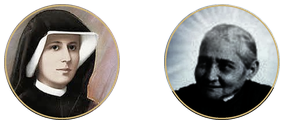
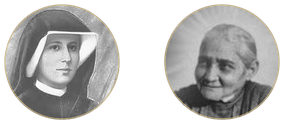
Diptyque en noir et blanc doux (case c1), blancs remontés à 230
- make_diptyque.py : chaîne de la case c1 de la planche, en numpy seul
  (égalisation locale CLAHE, alignement sur une cible commune de luminance
  et de contraste, noir et blanc doux, anneau doré #c9b074) ; force de
  l'égalisation réglable par portrait.
- Courbe « doux » : hautes lumières levées au-dessus de 0,6 (blancs du voile
  et du col vers 230/255 au lieu de 214) avec une épaule douce, sans
  écrêtage ; courbe inchangée en dessous, identique pour les deux portraits.
- Versions : diptyque v3, cache du service worker v12.

diff --git a/templates/index.html b/templates/index.html
@@ -28,8 +28,8 @@
 
         <!-- Accueil : les deux saintes. Dès qu'un éclairage est demandé, le
              portrait de la seule source interrogée prend le relais. -->
-        <img id="diptyque-accueil" class="diptyque-accueil" src="/static/diptyque.png?v=2"
-             srcset="/static/diptyque.png?v=2 1x, /static/diptyque@2x.png?v=2 2x"
+        <img id="diptyque-accueil" class="diptyque-accueil" src="/static/diptyque.png?v=3"
+             srcset="/static/diptyque.png?v=3 1x, /static/diptyque@2x.png?v=3 2x"
              width="284" height="124" alt="Sainte Faustine et Luisa Piccarreta"/>
         <div class="diptyque diptyque-cache" id="diptyque">
             <span class="portrait" data-source="luisa">

diff --git a/templates/login.html b/templates/login.html
@@ -24,8 +24,8 @@
 </head>
 <body class="page-login">
     <main class="login-container">
-        <img class="login-diptyque" src="/static/diptyque.png?v=2"
-             srcset="/static/diptyque.png?v=2 1x, /static/diptyque@2x.png?v=2 2x"
+        <img class="login-diptyque" src="/static/diptyque.png?v=3"
+             srcset="/static/diptyque.png?v=3 1x, /static/diptyque@2x.png?v=3 2x"
              width="284" height="124" alt="Sainte Faustine et Luisa Piccarreta"/>
         <h1 class="login-title">Accès protégé</h1>
         <p class="login-subtitle">Veuillez saisir le mot de passe pour accéder à l'application.</p>

diff --git a/static/sw.js b/static/sw.js
@@ -2,7 +2,7 @@
 // Stratégie : "network-first" sur la navigation, avec repli sur le cache hors-ligne.
 // Les requêtes API (POST) ne sont jamais mises en cache.
 
-const CACHE = "evangile-ldc-v11";
+const CACHE = "evangile-ldc-v12";
 const SHELL = [
   "/",
   "/static/styles.css?v=10",
@@ -11,8 +11,8 @@ const SHELL = [
   "/static/icon-192.png",
   "/static/icon-512.png",
   "/static/manifest.json?v=2",
-  "/static/diptyque.png?v=2",
-  "/static/diptyque@2x.png?v=2",
+  "/static/diptyque.png?v=3",
+  "/static/diptyque@2x.png?v=3",
 ];
 
 self.addEventListener("install", (event) => {

diff --git a/make_diptyque.py b/make_diptyque.py
@@ -5,11 +5,21 @@ make_diptyque.py — Génère l'image d'accueil : deux médaillons côte à côt
     static/diptyque.png      Sainte Faustine à gauche, Luisa Piccarreta à droite
     static/diptyque@2x.png   même image pour les écrans haute densité
 
-Les deux portraits reçoivent le même traitement : recadrage carré en buste,
-à la même échelle de visage ; harmonisation de luminosité et de saturation
-(fonctions de `make_portraits.py`) ; découpe ronde lissée ; bordure fine
-dorée (#c9b074, celle des portraits de l'application). L'image ne contient
-aucun texte : les noms figurent dans la page (texte d'accueil, attribut alt).
+Traitement retenu (case « c1 » de la planche comparative) : noir et blanc
+doux, bordure dorée fine #c9b074. Chaîne appliquée à chaque portrait :
+
+  1. recadrage carré en buste, à la même échelle de visage ;
+  2. passage en niveaux de gris, à 232 px (médaillon en 2x) ;
+  3. égalisation locale du contraste (CLAHE, écrite en numpy), force réglée
+     par portrait (`limite`) ;
+  4. alignement sur une cible commune de luminance moyenne et d'écart-type,
+     mesurés dans le médaillon : les deux photos, très différentes au départ
+     (peinture sombre, photographie claire), s'accordent ;
+  5. noir et blanc doux : noirs relevés, blancs adoucis ;
+  6. découpe ronde lissée, anneau doré. Hors du médaillon, transparent.
+
+La version 1x est la réduction de la version 2x, pour un rendu identique.
+L'image ne contient aucun texte : les noms figurent dans la page.
 
 Sources :
     Sainte Faustine  data/faustine/sfi.jpg    (722 × 423)
@@ -21,70 +31,128 @@ Les icônes PWA ne sont pas touchées (voir make_icons.py).
 """
 import os
 
-from PIL import Image, ImageDraw
-
-from make_portraits import harmoniser, luminance, saturation
+import numpy as np
+from PIL import Image
 
 RACINE = os.path.dirname(os.path.abspath(__file__))
 SORTIE = os.path.join(RACINE, "static")
 
-#: Mise en page à l'échelle 1 (pixels CSS) ; la version 2x double tout.
-DIAMETRE = 116          # médaillon
-BORDURE = 1.5           # épaisseur de la bordure
-ECART = 44              # espace entre les deux médaillons
-MARGE = 4               # marge autour de l'ensemble
+#: Mise en page en 2x (la version 1x en est la réduction de moitié).
+D = 232                 # diamètre du médaillon (116 px CSS)
+ECART = 88              # espace entre les médaillons (44 px CSS)
+MARGE = 8               # marge autour de l'ensemble (4 px CSS)
 
-OR = (201, 176, 116, 255)           # #c9b074
+OR = (201, 176, 116)    # #c9b074
 
-#: Recadrages carrés (x0, y0, x1, y1), en buste, réglés à l'œil pour que les
-#: deux visages aient la même taille dans le médaillon (le voile de Sainte
-#: Faustine monte plus haut que la tête de Luisa, d'où un cadre plus serré).
+#: Cible commune après égalisation (0-255), mesurée dans le médaillon.
+CIBLE_MOYENNE = 138.0
+CIBLE_ECART = 52.0
+TUILES = (4, 4)         # grille de l'égalisation locale
+
+#: Portraits : (nom, source, recadrage carré (x0, y0, x1, y1), limite CLAHE).
+#: Recadrages réglés à l'œil pour que les deux visages aient la même taille
+#: (le voile de Sainte Faustine monte plus haut que la tête de Luisa, d'où un
+#: cadre plus serré). La limite fixe la force de l'égalisation locale.
 PORTRAITS = [
-    ("Sainte Faustine", ("data", "faustine", "sfi.jpg"), (215, 0, 415, 200)),
-    ("Luisa Piccarreta", ("static", "luisa_icon.jpg"), (0, 0, 388, 388)),
+    ("Sainte Faustine", ("data", "faustine", "sfi.jpg"), (215, 0, 415, 200), 2.0),
+    ("Luisa Piccarreta", ("static", "luisa_icon.jpg"), (0, 0, 388, 388), 2.0),
 ]
 
-SURECHANTILLONNAGE = 4  # découpe ronde et bordure dessinées en 4x puis réduites
+
+def clahe(gris, tuiles=TUILES, limite=2.0):
+    """Égalisation d'histogramme adaptative à contraste limité (uint8 → float 0-255)."""
+    h, w = gris.shape
+    ty, tx = tuiles
+    th, tw = h // ty, w // tx
+    luts = np.zeros((ty, tx, 256), dtype=np.float64)
+    for i in range(ty):
+        for j in range(tx):
+            tuile = gris[i * th:(i + 1) * th, j * tw:(j + 1) * tw]
+            hist = np.bincount(tuile.ravel(), minlength=256).astype(np.float64)
+            plafond = limite * tuile.size / 256.0
+            exces = np.maximum(hist - plafond, 0).sum()
+            hist = np.minimum(hist, plafond) + exces / 256.0
+            cdf = hist.cumsum()
+            luts[i, j] = (cdf - cdf[0]) / max(cdf[-1] - cdf[0], 1) * 255.0
+    # Interpolation bilinéaire entre les tables des centres de tuiles.
+    yc = (np.arange(h) + 0.5) / th - 0.5
+    xc = (np.arange(w) + 0.5) / tw - 0.5
+    y0 = np.clip(np.floor(yc).astype(int), 0, ty - 1)
+    x0 = np.clip(np.floor(xc).astype(int), 0, tx - 1)
+    y1 = np.clip(y0 + 1, 0, ty - 1)
+    x1 = np.clip(x0 + 1, 0, tx - 1)
+    wy = np.clip(yc - y0, 0, 1)[:, None]
+    wx = np.clip(xc - x0, 0, 1)[None, :]
+    Y0, X0 = np.meshgrid(y0, x0, indexing="ij")
+    Y1, X1 = np.meshgrid(y1, x1, indexing="ij")
+    v = gris.astype(int)
+    haut = luts[Y0, X0, v] * (1 - wx) + luts[Y0, X1, v] * wx
+    bas = luts[Y1, X0, v] * (1 - wx) + luts[Y1, X1, v] * wx
+    return (haut * (1 - wy) + bas * wy).clip(0, 255)
 
 
-def medaillon(source, boite, diametre, bordure):
-    """Portrait harmonisé, découpé en disque, cerclé d'or (RGBA)."""
-    image = Image.open(os.path.join(RACINE, *source)).convert("RGB").crop(boite)
-    grand = diametre * SURECHANTILLONNAGE
-    image = harmoniser(image.resize((grand, grand), Image.LANCZOS), en_gris=False)
-
-    masque = Image.new("L", (grand, grand), 0)
-    ImageDraw.Draw(masque).ellipse((0, 0, grand - 1, grand - 1), fill=255)
-    disque = Image.new("RGBA", (grand, grand), (0, 0, 0, 0))
-    disque.paste(image, (0, 0), masque)
-
-    trait = round(bordure * SURECHANTILLONNAGE)
-    ImageDraw.Draw(disque).ellipse((trait // 2, trait // 2, grand - 1 - trait // 2,
-                                    grand - 1 - trait // 2),
-                                   outline=OR, width=trait)
-    return disque.resize((diametre, diametre), Image.LANCZOS), image
+def disque(taille, adoucir=1.0):
+    """(masque du médaillon 0-1 au bord lissé, rayon normalisé)."""
+    y, x = np.mgrid[0:taille, 0:taille]
+    r = np.hypot(x - (taille - 1) / 2, y - (taille - 1) / 2)
+    return np.clip((taille / 2 - r) / adoucir, 0, 1), r / (taille / 2)
 
 
-def composer(echelle):
-    d = DIAMETRE * echelle
-    marge, ecart = MARGE * echelle, ECART * echelle
-    toile = Image.new("RGBA", (2 * d + ecart + 2 * marge, d + 2 * marge), (0, 0, 0, 0))
-    for i, (nom, source, boite) in enumerate(PORTRAITS):
-        disque, portrait = medaillon(source, boite, d, BORDURE * echelle)
-        toile.alpha_composite(disque, (marge + i * (d + ecart), marge))
-        if echelle == 1:
-            print("[OK] %-17s luminance %.1f  saturation %.1f"
-                  % (nom, luminance(portrait), saturation(portrait)))
+def gris_egalise(source, boite, limite):
+    """Gris (0-1) égalisé puis aligné sur la cible commune."""
+    image = (Image.open(os.path.join(RACINE, *source)).convert("L")
+             .crop(boite).resize((D, D), Image.LANCZOS))
+    g = clahe(np.asarray(image), limite=limite)
+    dedans = disque(D)[0] > 0.5
+    g = (g - g[dedans].mean()) / max(g[dedans].std(), 1e-6) * CIBLE_ECART + CIBLE_MOYENNE
+    return g.clip(0, 255) / 255.0
+
+
+#: Courbe « noir et blanc doux ». Base : noirs relevés (0,07), blancs adoucis.
+#: Au-dessus de SEUIL_BLANCS, levée progressive des hautes lumières (blancs du
+#: voile et du col vers 230/255 au lieu de 214), puis épaule douce au-dessus de
+#: EPAULE : la courbe tend vers le blanc sans l'atteindre (max ≈ 252), donc
+#: sans écrêtage. En dessous de SEUIL_BLANCS, la courbe de base est inchangée.
+SEUIL_BLANCS = 0.6
+LEVEE_BLANCS = 0.196
+EPAULE = 0.88
+
+
+def noir_blanc_doux(g):
+    """Courbe douce, blancs remontés sans écrêtage (0-1 → 0-255)."""
+    t = np.clip((g - SEUIL_BLANCS) / (1 - SEUIL_BLANCS), 0, 1)
+    y = 0.07 + 0.88 * g ** 0.92 + LEVEE_BLANCS * t * t
+    y = np.where(y <= EPAULE, y, 1 - (1 - EPAULE) * np.exp(-(y - EPAULE) / (1 - EPAULE)))
+    return y * 255.0
+
+
+def medaillon(g):
+    """Médaillon RGBA : portrait en noir et blanc doux, anneau doré (~3 px en 2x)."""
+    masque, r = disque(D, adoucir=1.2)
+    anneau = np.clip(1 - np.abs(r * D / 2 - (D / 2 - 2.2)) / 1.6, 0, 1)
+    gris = noir_blanc_doux(g)[..., None]
+    rgb = gris * (1 - anneau[..., None]) + np.array(OR) * anneau[..., None]
+    rgba = np.dstack([rgb, masque * 255.0]).clip(0, 255).astype(np.uint8)
+    return Image.fromarray(rgba, "RGBA")
+
+
+def composer():
+    """Diptyque en 2x."""
+    toile = Image.new("RGBA", (2 * D + ECART + 2 * MARGE, D + 2 * MARGE), (0, 0, 0, 0))
+    for i, (nom, source, boite, limite) in enumerate(PORTRAITS):
+        toile.alpha_composite(medaillon(gris_egalise(source, boite, limite)),
+                              (MARGE + i * (D + ECART), MARGE))
     return toile
 
 
 def main():
-    for echelle, suffixe in ((1, ""), (2, "@2x")):
+    image_2x = composer()
+    image_1x = image_2x.resize((image_2x.width // 2, image_2x.height // 2), Image.LANCZOS)
+    for image, suffixe in ((image_1x, ""), (image_2x, "@2x")):
         chemin = os.path.join(SORTIE, "diptyque%s.png" % suffixe)
-        composer(echelle).save(chemin, "PNG", optimize=True)
-        with Image.open(chemin) as im:
-            print("[OK] %-28s %d x %d  %d octets"
-                  % (chemin, im.width, im.height, os.path.getsize(chemin)))
+        image.save(chemin, "PNG", optimize=True)
+        print("[OK] %-28s %d x %d  %d octets"
+              % (chemin, image.width, image.height, os.path.getsize(chemin)))
 
 
 if __name__ == "__main__":
